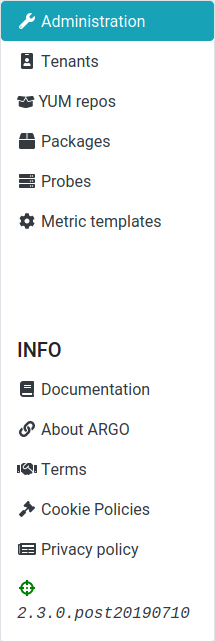
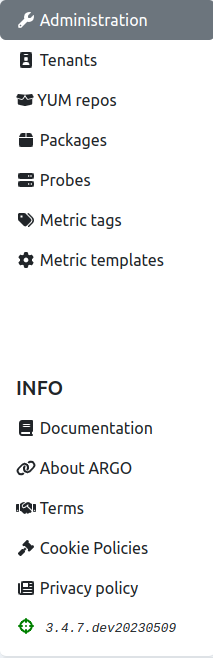
Update User interface information for SuperAdmin POEM

Changed region(s): [[0.0, 0.0, 1.0, 1.0], [0.0563, 0.5304, 0.9014, 0.9672]]

diff --git a/doc/v1/docs/superadmin_ui.md b/doc/v1/docs/superadmin_ui.md
@@ -2,9 +2,9 @@
 
 When the user is logged into SuperAdmin POEM, (s)he is redirected to [Administration page](superadmin_administration.md). 
 
-On the left side, one can see a side bar (shown in the figure below), where the other pages are accessible: [tenants](superadmin_tenants.md), [YUM repos](superadmin_repos.md), [packages](superadmin_packages.md), [probes](superadmin_probe.md), and [metric template](superadmin_metric_templates.md) pages.
+On the left side, one can see a menu (shown in the figure below), from which the other pages are accessible: [tenants](superadmin_tenants.md), [YUM repos](superadmin_repos.md), [packages](superadmin_packages.md), [probes](superadmin_probe.md), [metric tags](superadmin_metric_tags.md), and [metric template](superadmin_metric_templates.md) pages.
 
-In the **INFO** section of the side bar, users can access this documentation, or read information about ARGO, terms, and policies.
+In the **INFO** section of the side menu, users can access this documentation, or read information about ARGO, terms, and also about cookie and privacy policies.
 
 ![SuperAdmin Sidebar](figures/superadmin_sidebar.png)
 
@@ -12,6 +12,6 @@ On the top bar (shown in the figure below), there are ARGO logo, greeting messag
 
 ![SuperAdmin Topbar](figures/superadmin_topbar.png)
 
-User can hover over his/her name to get user details. It shows type of user (only one type on SuperAdmin POEM - super admin) and his/her email address.
+User can click his/her name to get user details. It shows type of user (only one type on SuperAdmin POEM - super admin) and his/her email address.
 
 ![SuperAdmin UserInfo](figures/superadmin_user_hover.png)
